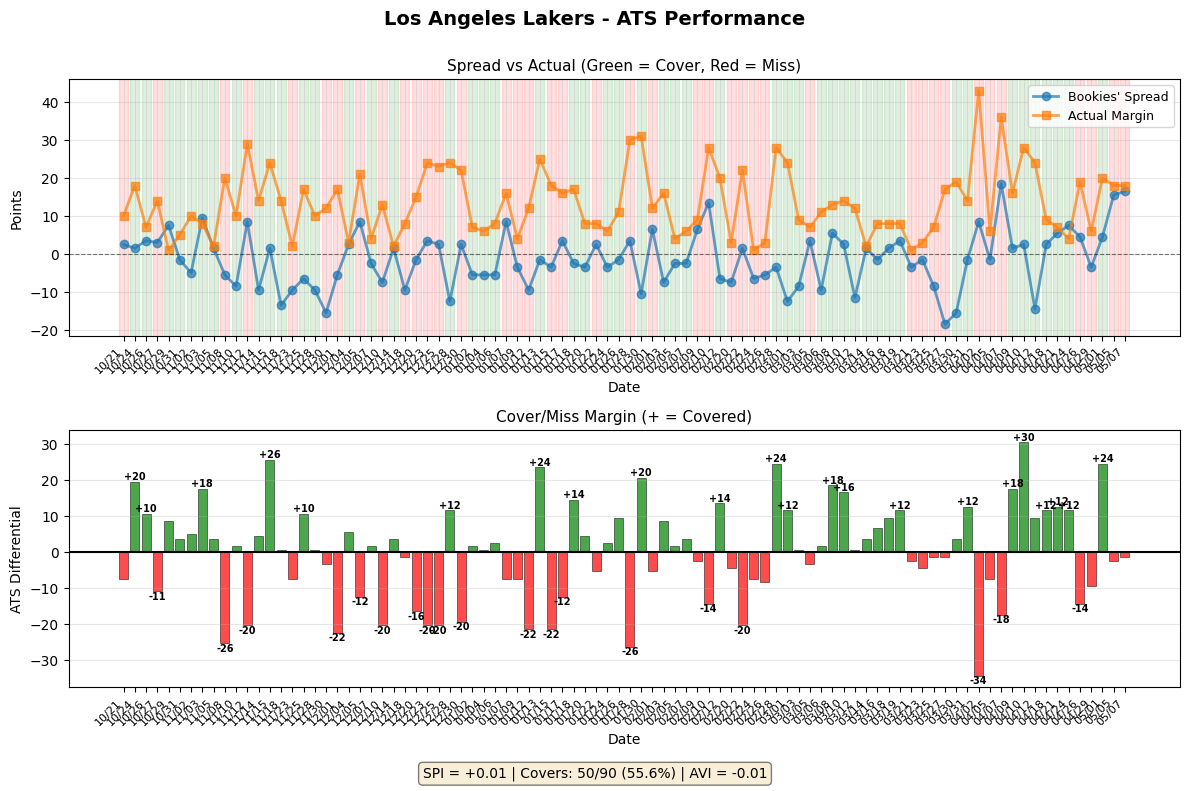
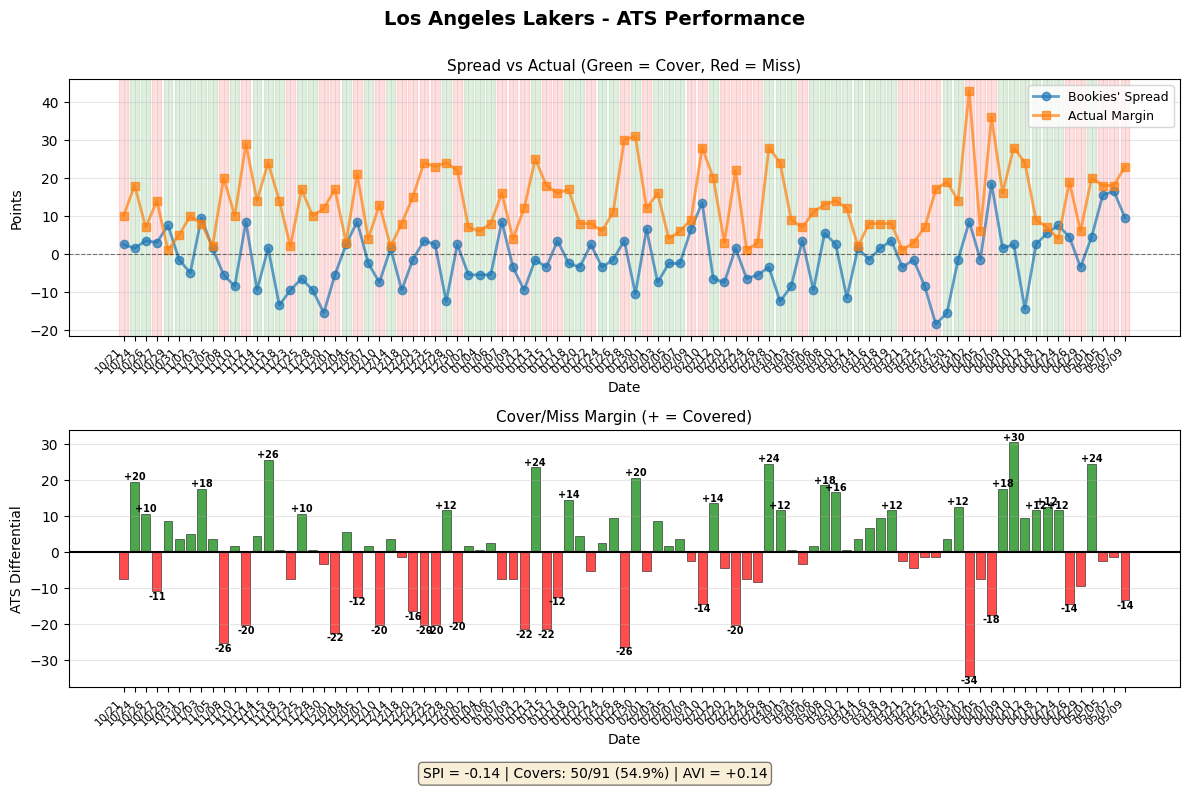
Update nbabetinfo page with ATS plots [2026-05-11 06:28 UTC]

diff --git a/index.html b/index.html
@@ -193,8 +193,8 @@
           </tr>
         </thead>
         <tbody>
-          <tr><td class='time'>12:30 PM PT</td><td class='team-name'>New York Knicks (-1.5)</td><td class='metric'>+2.83</td><td class='metric highlight'>+2.39</td><td class='metric'>+4.55</td><td class='metric'>54.8%</td><td class='team-name'>Philadelphia 76ers (+1.5)</td><td class='metric'>-0.79</td><td class='metric'>+0.32</td><td class='metric highlight'>-1.89</td><td class='metric'>53.2%</td></tr>
-<tr><td class='time'>4:30 PM PT</td><td class='team-name'>San Antonio Spurs (-5.5)</td><td class='metric'>+3.19</td><td class='metric highlight'>+1.53</td><td class='metric'>+9.45</td><td class='metric'>57.1%</td><td class='team-name'>Minnesota Timberwolves (+5.5)</td><td class='metric'>-0.43</td><td class='metric'>-1.27</td><td class='metric highlight'>+1.19</td><td class='metric'>45.1%</td></tr>
+          <tr><td class='time'>5:00 PM PT</td><td class='team-name'>Detroit Pistons (+3.5)</td><td class='metric'>+2.38</td><td class='metric'>+0.93</td><td class='metric highlight'>+9.22</td><td class='metric'>53.3%</td><td class='team-name'>Cleveland Cavaliers (-3.5)</td><td class='metric'>-2.10</td><td class='metric highlight'>-2.58</td><td class='metric'>-0.14</td><td class='metric'>40.2%</td></tr>
+<tr><td class='time'>7:30 PM PT</td><td class='team-name'>Oklahoma City Thunder (-10.5)</td><td class='metric'>+0.90</td><td class='metric highlight'>+0.98</td><td class='metric'>-0.75</td><td class='metric'>49.4%</td><td class='team-name'>Los Angeles Lakers (+10.5)</td><td class='metric'>-0.14</td><td class='metric'>+0.41</td><td class='metric highlight'>-0.80</td><td class='metric'>54.9%</td></tr>
         </tbody>
       </table>
     </div>
@@ -217,10 +217,10 @@
     <section class="plots-section">
       <h2>ATS Performance Charts for Today's Teams</h2>
       <div class="plots-grid">
-        <div class="plot-item"><img src="plots/ats_new-york-knicks.png" alt="New York Knicks ATS Performance" /></div>
-        <div class="plot-item"><img src="plots/ats_philadelphia-76ers.png" alt="Philadelphia 76ers ATS Performance" /></div>
-        <div class="plot-item"><img src="plots/ats_san-antonio-spurs.png" alt="San Antonio Spurs ATS Performance" /></div>
-        <div class="plot-item"><img src="plots/ats_minnesota-timberwolves.png" alt="Minnesota Timberwolves ATS Performance" /></div>
+        <div class="plot-item"><img src="plots/ats_detroit-pistons.png" alt="Detroit Pistons ATS Performance" /></div>
+        <div class="plot-item"><img src="plots/ats_cleveland-cavaliers.png" alt="Cleveland Cavaliers ATS Performance" /></div>
+        <div class="plot-item"><img src="plots/ats_oklahoma-city-thunder.png" alt="Oklahoma City Thunder ATS Performance" /></div>
+        <div class="plot-item"><img src="plots/ats_los-angeles-lakers.png" alt="Los Angeles Lakers ATS Performance" /></div>
       </div>
     </section>
   </body>
